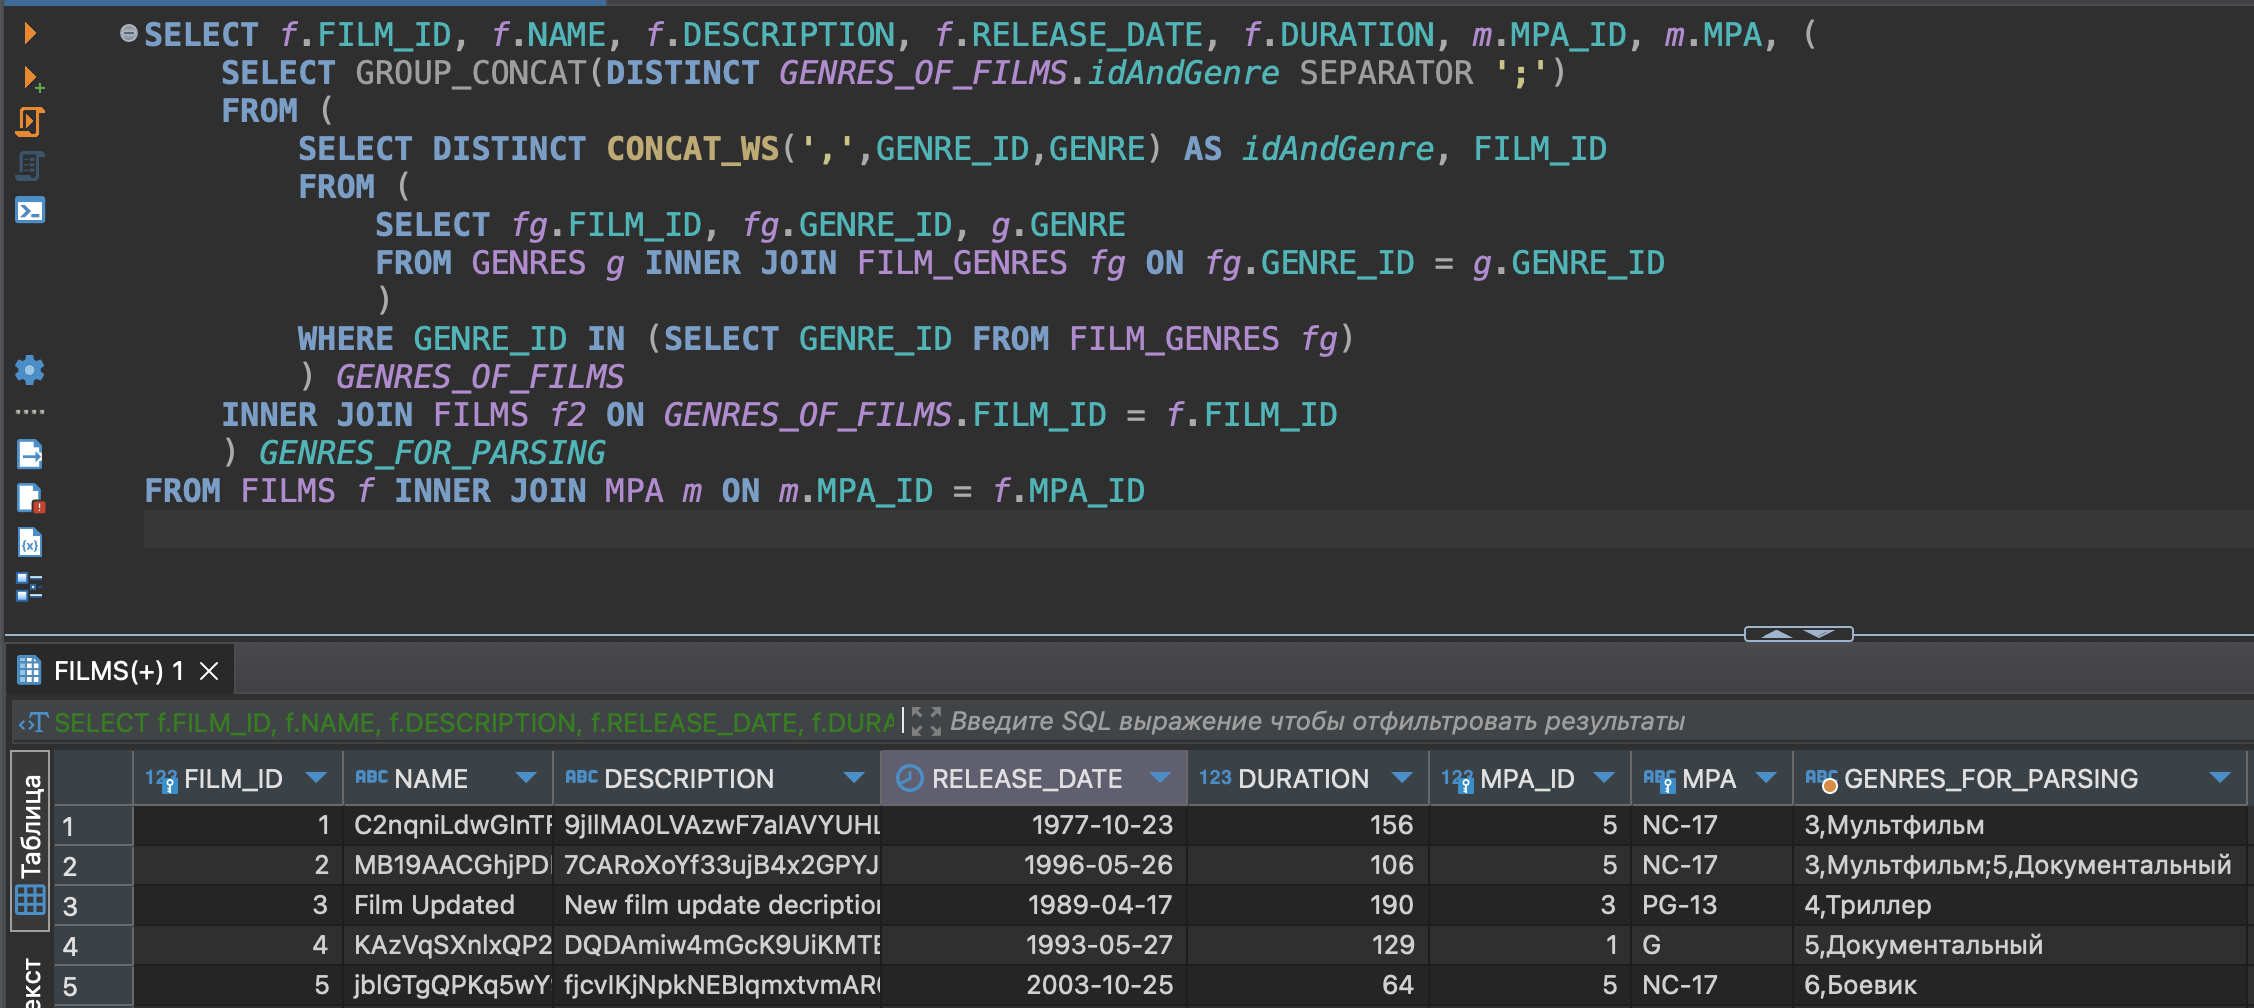
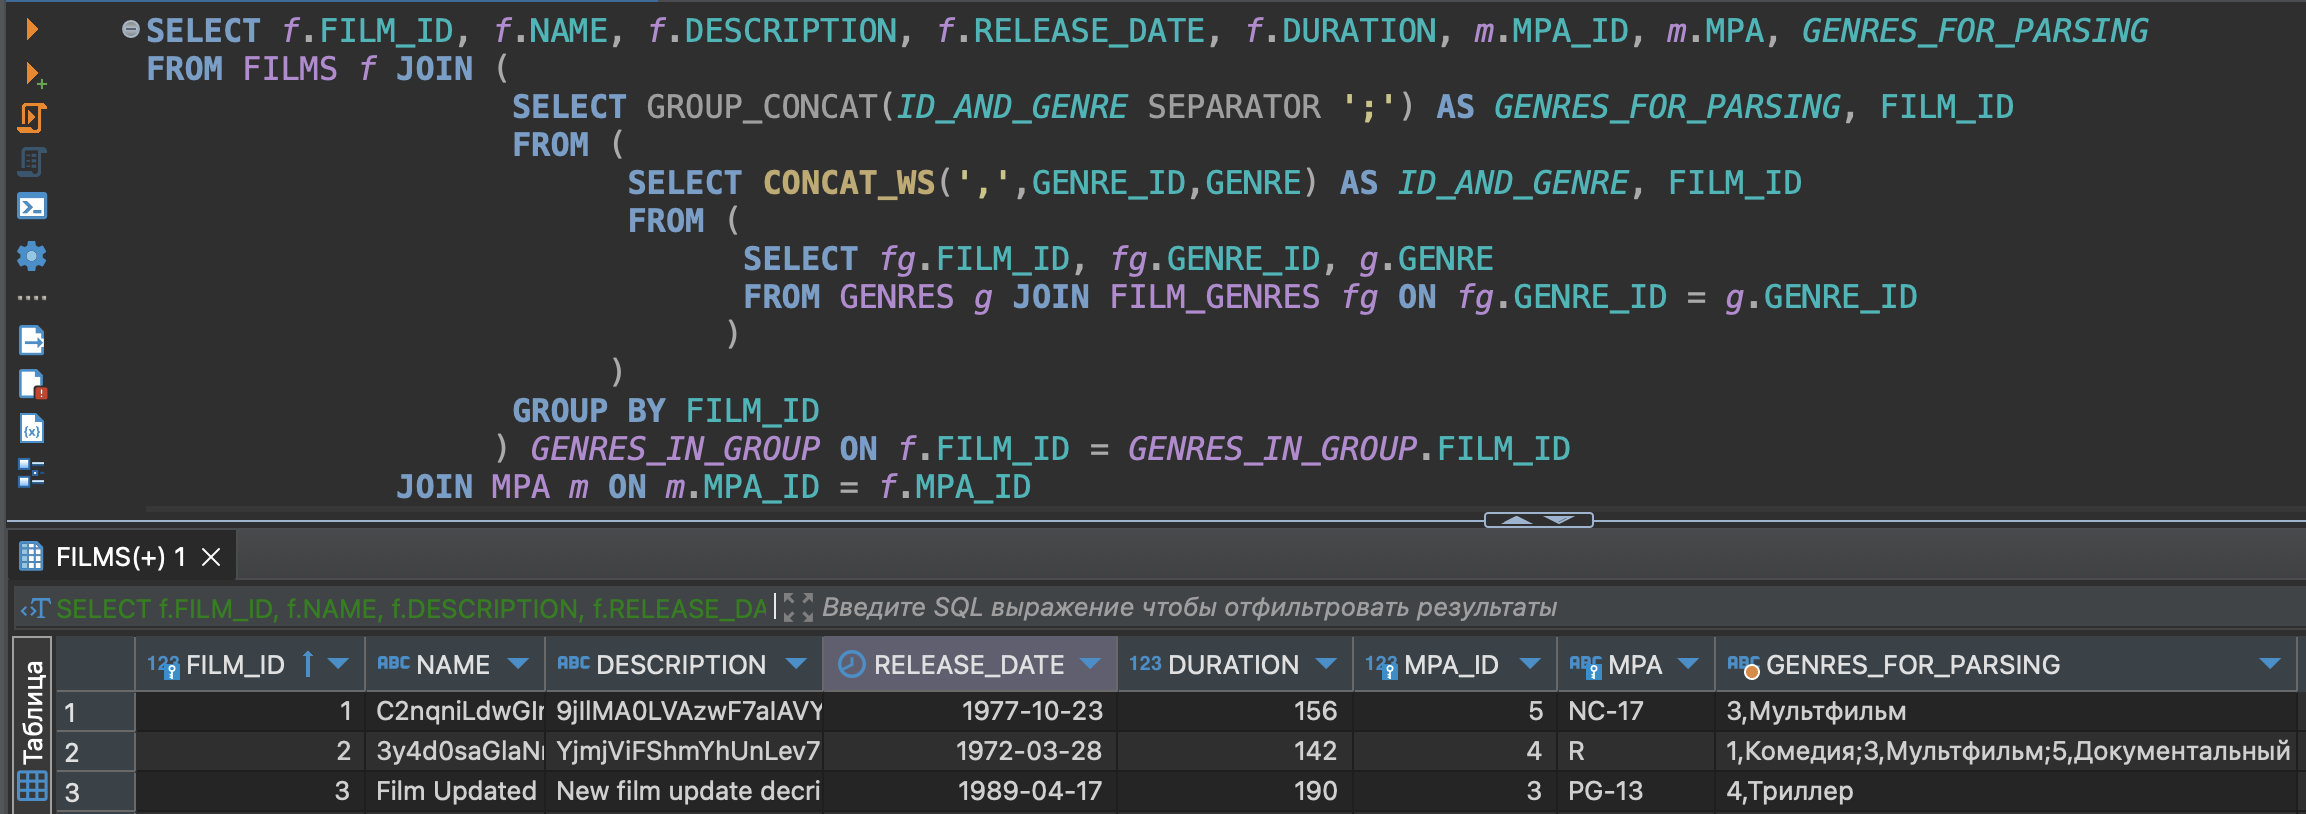
ТЗ11: оптимизирован запрос фильмов

Changed region(s): [[0.0, 0.0, 1.0, 1.0]]

diff --git a/src/main/java/ru/yandex/practicum/filmorate/storage/film/FilmDbStorage.java b/src/main/java/ru/yandex/practicum/filmorate/storage/film/FilmDbStorage.java
@@ -35,22 +35,21 @@ public class FilmDbStorage implements FilmStorage {
 
     @Override
     public List<Film> findAll() {
-        SqlRowSet allFilmsRows = jdbcTemplate.queryForRowSet(commonPartOfQuery());
+        SqlRowSet allFilmsRows = jdbcTemplate.queryForRowSet(commonPartOfQuery() + " ORDER BY FILM_ID");
         return filmsParsing(allFilmsRows);
     }
 
     /**
      Скриншот форматированного (для лучшей читаемости) запроса приведён в файле FILMS_WITH_GENRES в папке resources.
-     Выборки, получаемые при выполнении вложенных запросов (см. выделение) - в файлах PARTIAL_EXECUTION 1 и 2.
+     Выборки, получаемые при выполнении вложенных запросов (см. выделение) - в файлах PARTIAL_EXECUTION 1, 2 и 3.
     */
     private String commonPartOfQuery() {
         return "SELECT f.FILM_ID, f.NAME, f.DESCRIPTION, f.RELEASE_DATE, f.DURATION, m.MPA_ID, m.MPA, " +
-                "(SELECT GROUP_CONCAT(DISTINCT GENRES_OF_FILMS.idAndGenre SEPARATOR ';') FROM " +
-                "(SELECT DISTINCT CONCAT_WS(',',GENRE_ID,GENRE) AS idAndGenre, FILM_ID FROM (SELECT fg.FILM_ID, " +
-                "fg.GENRE_ID, g.GENRE FROM GENRES g INNER JOIN FILM_GENRES fg ON fg.GENRE_ID = g.GENRE_ID) " +
-                "WHERE GENRE_ID IN (SELECT GENRE_ID FROM FILM_GENRES fg)) GENRES_OF_FILMS INNER JOIN FILMS f2 " +
-                "ON GENRES_OF_FILMS.FILM_ID = f.FILM_ID) GENRES_FOR_PARSING " +
-                "FROM FILMS f INNER JOIN MPA m ON m.MPA_ID = f.MPA_ID";
+                "GENRES_FOR_PARSING FROM FILMS f JOIN (SELECT GROUP_CONCAT(ID_AND_GENRE SEPARATOR ';') AS " +
+                "GENRES_FOR_PARSING, FILM_ID FROM (SELECT CONCAT_WS(',',GENRE_ID,GENRE) AS ID_AND_GENRE, FILM_ID " +
+                "FROM (SELECT fg.FILM_ID, fg.GENRE_ID, g.GENRE FROM GENRES g JOIN FILM_GENRES fg ON fg.GENRE_ID = " +
+                "g.GENRE_ID)) GROUP BY FILM_ID) GENRES_IN_GROUP ON f.FILM_ID = GENRES_IN_GROUP.FILM_ID JOIN MPA m " +
+                "ON m.MPA_ID = f.MPA_ID";
     }
 
     @Override
@@ -68,7 +67,6 @@ public class FilmDbStorage implements FilmStorage {
             int mpaId = Integer.parseInt(Objects.requireNonNull(filmsRows.getString("MPA_ID")));
             String mpaName = filmsRows.getString("MPA");
             Mpa mpa = new Mpa(mpaId, mpaName);
-            mpa.setId(mpaId);
             String rowOfGenres = filmsRows.getString("GENRES_FOR_PARSING");
             assert rowOfGenres != null;
             List<Genre> genres = genresParsing(rowOfGenres);
